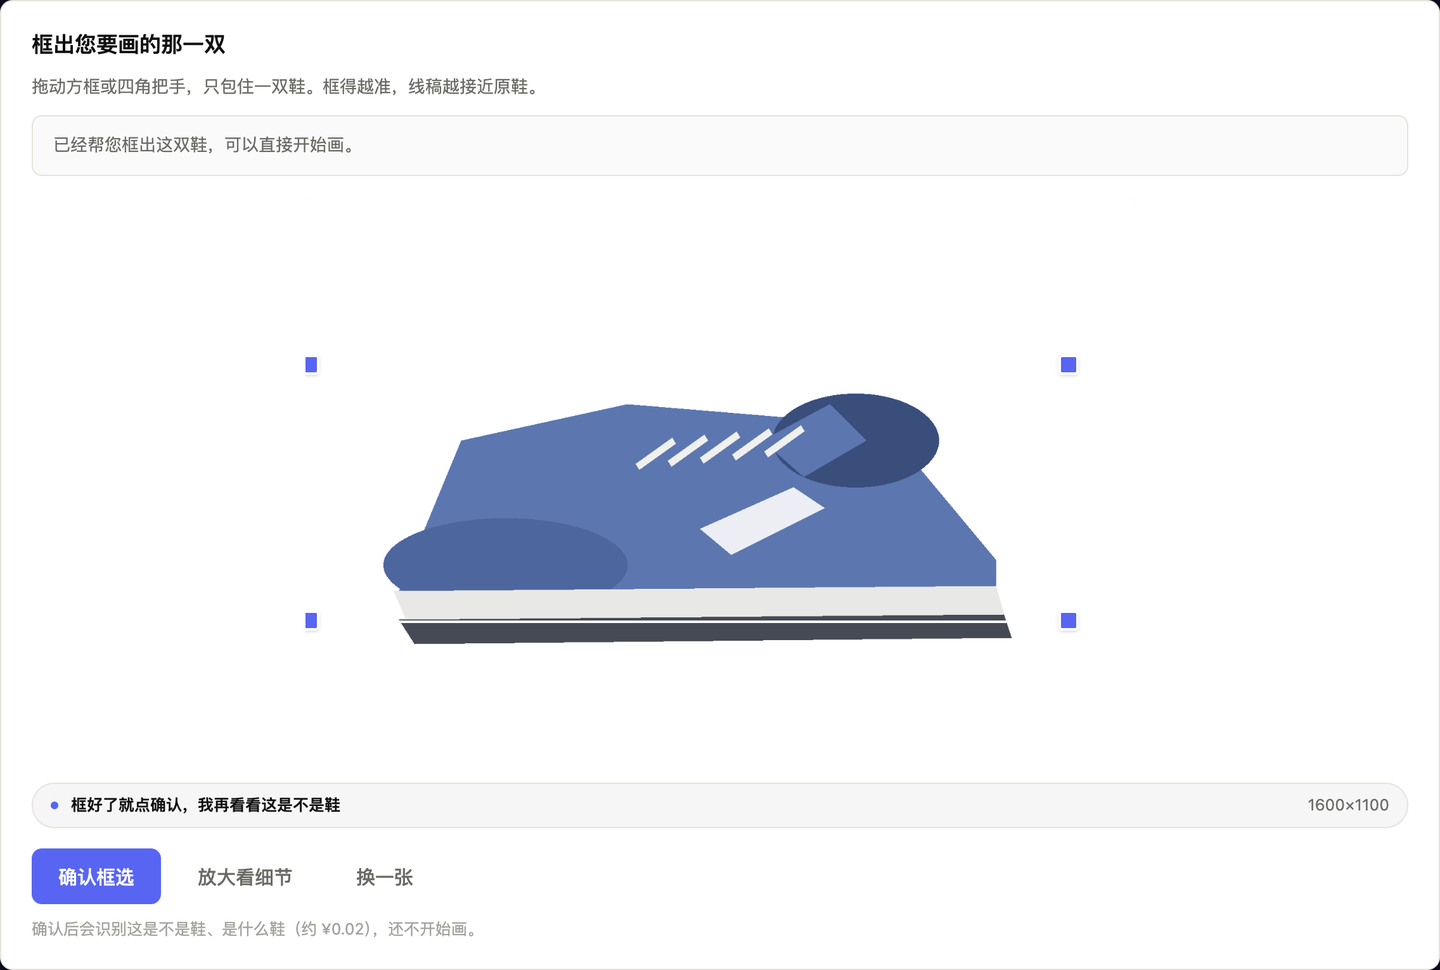
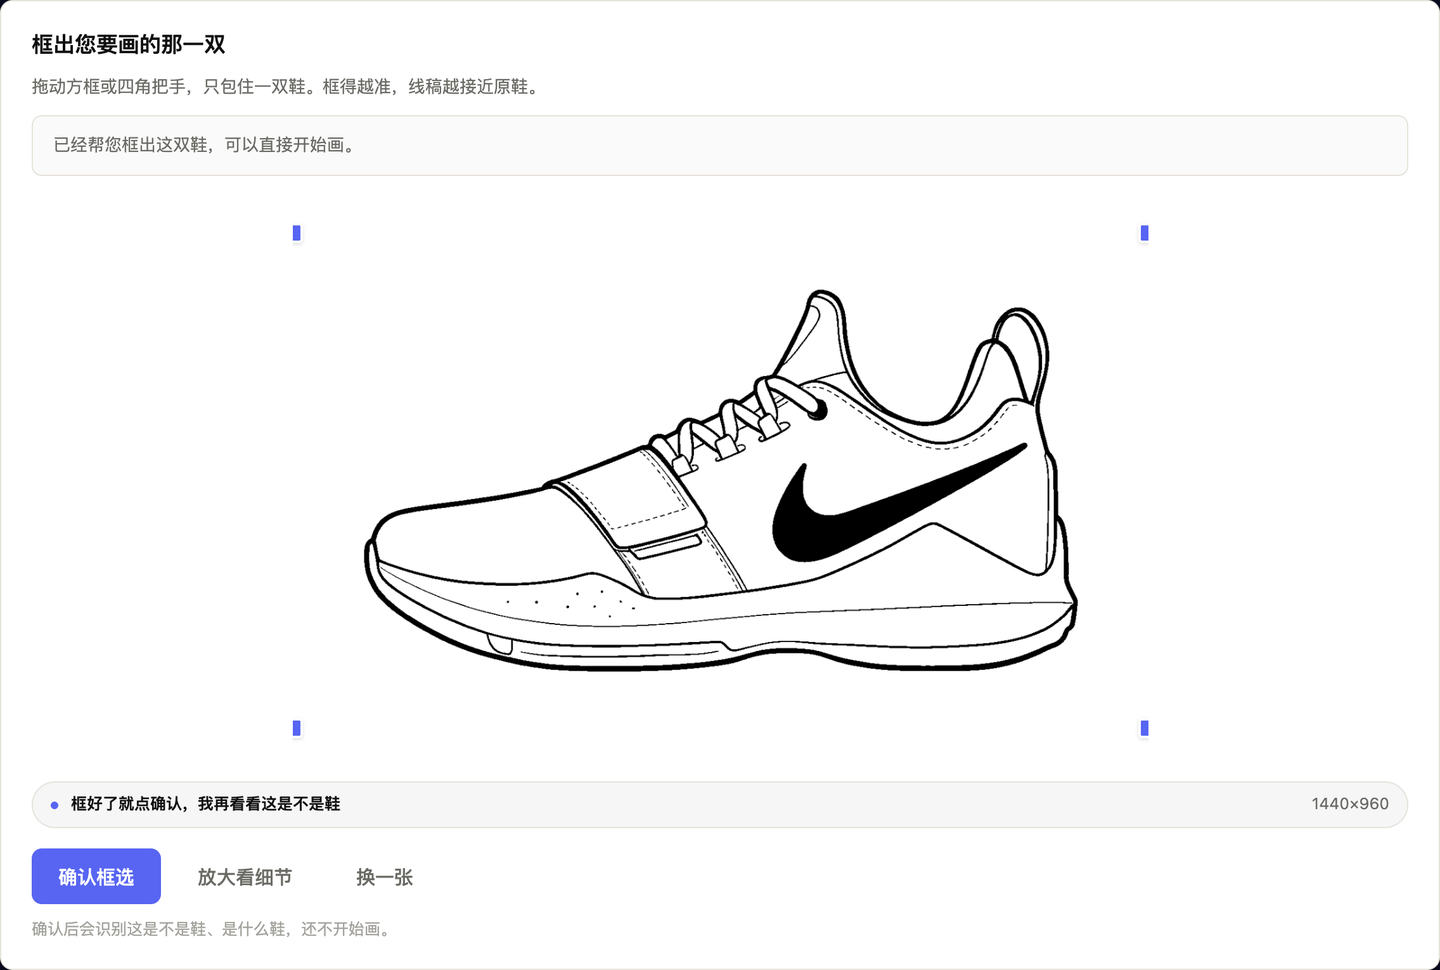
对外文案去金额化 + 重拍裁切示意图
- README / 决策记录 / 上线记录 / 冒烟报告 / PRD：删掉所有具体金额与「成本/花费」表述，
  改成「调用次数 + 取舍结论」的写法（例如：真正省开销的办法不是换便宜模型，而是把取材做对）
- 产品界面文案同步去掉金额（裁切确认页、生成详情的成本行）；代码注释里的金额也一并清掉
- 02-crop.png 重拍：用产品自己画出的 PG 1 线稿作为待裁切图，替代原来那张粗糙的示意图
- 冒烟脚本模板不再把金额写进报告

diff --git a/frontend/features/generation/components/GenerationProgress.tsx b/frontend/features/generation/components/GenerationProgress.tsx
@@ -102,7 +102,7 @@ export function GenerationProgress({ task }: { task: TaskOut }) {
             <details className="mt-3 text-[12.5px] text-faint">
               <summary className="cursor-pointer select-none">过程详情</summary>
               <p className="mt-2">
-                已调用上游 {task.upstream_calls} 次｜调用次数 {task.est_cost_cny}｜当前步骤：
+                已调用上游 {task.upstream_calls} 次｜当前步骤：
                 {task.progress?.step ?? "—"}
               </p>
             </details>

diff --git a/frontend/features/generation/components/DraftMosaic.tsx b/frontend/features/generation/components/DraftMosaic.tsx
@@ -12,7 +12,7 @@
  * - 这样既能表达"还在生成"，又不会把草稿盖住（草稿必须看得清鞋型）。
  * - 尊重 `prefers-reduced-motion`：偏好关闭时直接不画（不做纯装饰动画）。
  *
- * 注意：它只是**展示层**。草稿本身还是那张  的 CV 边缘图，正式稿完成时整体淡入替换。
+ * 注意：它只是**展示层**。草稿本身还是那张纯本机计算的 CV 边缘图，正式稿完成时整体淡入替换。
  */
 import { useEffect, useRef } from "react";
 

diff --git a/frontend/features/generation/components/CropConfirm.tsx b/frontend/features/generation/components/CropConfirm.tsx
@@ -282,7 +282,7 @@ export function CropConfirm({
         </Button>
       </div>
       <p className="mt-2.5 text-[12.5px] text-faint">
-        确认后会识别这是不是鞋、是什么鞋（本机计算），还不开始画。
+        确认后会识别这是不是鞋、是什么鞋，还不开始画。
       </p>
     </Card>
   );

diff --git a/backend/scripts/smoke_upload.py b/backend/scripts/smoke_upload.py
@@ -115,7 +115,7 @@ def run_flow(
     response.raise_for_status()
     inspected = response.json()
     step(
-        "体检·AI 识别（本机计算）",
+        "体检·AI 识别",
         started,
         tier=inspected["tier"],
         display_name=inspected["detail"]["display_name"],
@@ -270,7 +270,7 @@ def write_report(report: dict, provider_info: dict, filename: str = "smoke-repor
         f"- 状态轨迹：{' → '.join(report.get('states_seen', [])) or '—'}",
         f"- 最终状态：{report.get('final_state', '—')}",
         f"- 归档标题（体检识别）：{report.get('query', '—')}",
-        f"- 上游调用次数：{report.get('upstream_calls', '—')}｜上游调用：{report.get('est_cost_cny', '—')}",
+        f"- 上游调用次数：{report.get('upstream_calls', '—')}",
         f"- 生成次数（含自动重试）：{report.get('attempts', '—')}｜是否**首次即达标**：{report.get('passed_first_attempt', '—')}",
         "",
         "## V2 特有自检（坐标约定与动效素材）",

diff --git a/backend/app/services/tools/verify_lineart.py b/backend/app/services/tools/verify_lineart.py
@@ -45,7 +45,7 @@ def style_blocking_issues(
     “hatch_suspect 是硬判据，其余是指标观察区间”，但代码把**任何**区间偏离都当不合格 ——
     于是一张质检 0.93、Logo 实心、鞋带正确的好画稿，因为
     `filled_block_share=0.0149 < 0.020`（V2 规则只许 Logo 填色，实心块本来就少）
-    被判不合格，白烧两次生成（本机计算）并给用户看失败页。
+    被判不合格，白烧两次生成并给用户看失败页。
     """
     out: list[str] = []
     for key in hard_keys or []:

diff --git a/backend/app/services/tools/screen_source_images.py b/backend/app/services/tools/screen_source_images.py
@@ -2,7 +2,7 @@
 
 为什么必须做：文搜图返回的常是"资讯配图/开箱照"——两只鞋合影、3/4 角度、背景杂乱。
 若直接拿来当参考图，线稿会偏离 PRD 的"单只、正侧面、白底"规范（实测会被风格闸门拦下）。
-因此在推荐给用户之前，先用**一次**视觉调用对候选图打分（成本约 ）。
+因此在推荐给用户之前，先用**一次**视觉调用对候选图打分。
 
 失败不阻塞：预筛出错时退回启发式排序（并在任务里记录原因）。
 """

diff --git a/backend/app/core/config.py b/backend/app/core/config.py
@@ -128,7 +128,7 @@ class Settings(BaseSettings):
     warmup_timeout_seconds: float = 15.0
 
     # ---------- 上传图体检（V2）----------
-    #: 每人每天最多体检几次（防手滑刷成本；0 = 不限）。线上每次约 
+    #: 每人每天最多体检几次（防止误操作造成无谓的调用；0 = 不限）
     max_inspect_per_day: int = 50
     #: 上传图解码后的最大边长（超出会自动等比缩小，保护内存与上游）
     max_upload_edge: int = 2400

diff --git a/backend/app/api/v1/tasks.py b/backend/app/api/v1/tasks.py
@@ -438,7 +438,7 @@ def get_draft(
 ) -> Response:
     """CV 草稿（边缘骨架图）：生成 AI 稿期间给前端做「扫过式揭示」动效用。
 
-    它是预处理阶段纯 CV 抽出来的（约 1 秒、），不是最终交付物；
+    它是预处理阶段纯 CV 抽出来的（约 1 秒、本机计算），不是最终交付物；
     型号直出（无画布）的任务没有它，前端据此退回纯进度卡片。
     """
     container = get_container(request)

diff --git a/backend/app/api/v1/inspect.py b/backend/app/api/v1/inspect.py
@@ -7,7 +7,7 @@
 
 ## 两次调用的分工（成本敏感）
 - 第一次（不带 crop）：**只跑 CV**（本机计算），返回"建议裁切框"，前端预填到拖拽框里；
-- 第二次（带 crop）：裁切后跑 AI 体检（本机计算），返回三档结论与文案。
+- 第二次（带 crop）：裁切后跑一次 AI 体检，返回三档结论与文案。
 这样"用户只是传张图看看"不会产生模型费用。
 """
 

diff --git a/docs/阶段5上线记录-V2.md b/docs/阶段5上线记录-V2.md
@@ -30,10 +30,10 @@
 
 ## 三、上线过程中发现并修掉的三个真实问题
 
-> 这三个都是"不跑真图就不会发现"的问题 —— 正好说明为什么值得花  先在线上验一次。
+> 这三个都是"不跑真图就不会发现"的问题 —— 正好说明为什么值得先在线上验一次。
 
 ### 问题 1：App 截图的深色界面栏被当成「鞋」
-- **现象**（第一次冒烟，）：CV 报 `tier=multi, count=3`，建议框给到了**底部价格栏**；视觉模型看着那个框，正确地回答
+- **现象**（第一次冒烟）：CV 报 `tier=multi, count=3`，建议框给到了**底部价格栏**；视觉模型看着那个框，正确地回答
   「我看到的更像「**电商商品规格选择页**」」→ 体检这步直接断掉，连生成都没开始。
 - **根因**：截图里面积最大的两个"像鞋候选"其实是顶部状态栏（暗占比 **0.988**）与底部规格/价格栏（**0.904**），真正的鞋排第三（**0.375**）。
 - **修复**：新增 `is_ui_chrome()`（候选框内"暗 ≥85% 且亮 ≤15%" → 界面栏，直接剔除）；
@@ -41,7 +41,7 @@
   `_background_color()` 优先用"浅色商品图区域"的中位色（截图四边都是黑栏，原来会把背景估成黑）。
 - **结果**：同一张图从"建议框 = 价格栏"变成"候选只剩鞋、判定 ok、框干净地包住鞋"。
 
-### 问题 2：质检闸门把一张**正确**的画稿判失败（白烧两次生成，）
+### 问题 2：质检闸门把一张**正确**的画稿判失败（白烧两次生成）
 - **现象**（第二次冒烟）：画稿质检 **0.9325**、verdict `pass`、`logo_filled=1.0`（钩形确实填实）、`laces_solid_ratio=0`（鞋带没被涂黑）、`hatch_suspect=0`（无排线）—— 但任务 `failed`。
   原因：`filled_block_share=0.0149 < 0.020`（风格区间的**下限**）。
 - **根因**：风格模板注释写的是"只有 `hatch_suspect` 是硬判据，其余是观察区间"，但代码把**任何**区间偏离都当不合格；
@@ -70,17 +70,18 @@
 | 前端已切 V2 | 首页 metadata / 空鞋柜文案 | ✅ "上传一张球鞋照片…"、"在上面上传一张您那双鞋的照片…" |
 | 测试档案清理 | 管理员会话删除冒烟产出 | ✅ 鞋柜恢复 **0**（干净起点，供人工验收从零走一遍） |
 
-## 五、开销取舍（本次真实花费）
+## 五、本次验证的调用量
 
-| 项 | 金额 |
+| 项 | 次数 |
 | --- | --- |
-| 体检（真实视觉模型） | 约  × 5 次（含失败重试） ≈  |
-| 生成（真实图生图） | 约  × 4 次（1 次因质检闸门误杀重画 ×2、2 次 E2E 调试） ≈  |
-| **合计** | **约 **（其中可避免的浪费约 ，已通过问题 2 的修复消除） |
+| 体检（真实视觉模型） | 5 次（含失败重试） |
+| 生成（真实图生图） | 4 次（其中 2 次是质检闸门误杀导致的重复生成，已通过问题 2 的修复消除） |
+
+> 与开销相关的信息只在运营侧记录，不入仓库。
 
 ## 六、遗留与下一步
 
-1. **人工验收**：按发布时随附的验收清单走 9 步（约 ，含 1 张非鞋图 + 1 张真鞋图）。清单是本机运维文档，不入仓库。
+1. **人工验收**：按发布时随附的验收清单走 9 步（含 1 张非鞋图 + 1 张真鞋图）。清单是本机运维文档，不入仓库。
 2. **未知/未验**：多只鞋的列表页截图（应提示"重新框选"）、非鞋图（应友好拒绝）、访客码视角 —— 这些属于验收清单里的步骤，尚未用真图实测。
 3. **开发层面唯一挂起项**：**导出时合成牛皮纸**（产品目前没有下载/导出功能，等加导出时一并做）。
 4. **已知局限**：体检识别的型号可能不准（本次把图里的鞋识别为 `Nike PG 1`，置信度 0.99；如果认错，用户可以在归档时改标题）。
@@ -97,7 +98,7 @@
 
 | 图 | 线上表现 | 根因 |
 | --- | --- | --- |
-| **AJ36**（本机计算） | 2 次重画后 `failed`，用户连图都看不到 | 照片那个角度**看不到飞人 Logo**，模型于是编了个装饰性 ∞ 符号；判官正确地判"Logo 不对"（`logo_legibility=0.35`、`logo_filled=0.0`）→ 两个硬闸门不过 → 整单失败 |
+| **AJ36**（重画 2 次） | 2 次重画后 `failed`，用户连图都看不到 | 照片那个角度**看不到飞人 Logo**，模型于是编了个装饰性 ∞ 符号；判官正确地判"Logo 不对"（`logo_legibility=0.35`、`logo_filled=0.0`）→ 两个硬闸门不过 → 整单失败 |
 | **Air Force 1** | 没有生成任务记录（卡在体检前） | 商品页截图里**同一双鞋重复出现多张**，CV 判 `multi`（"这张图里有好几双鞋"）→ 用户一框大就更容易被判"框里不止一双" → 走不下去 |
 | 两张共同的体验问题 | 失败文案写着"已把最接近的一张交给您裁决"，但界面**根本没显示那张图** | 失败即 dead-end，与文案自相矛盾 |
 
@@ -115,10 +116,10 @@
 
 ## 三、这一轮的线上复测（同一批真图，重跑）
 
-| 图 | 结果 | 质检 | 次数 | 成本 |
-| --- | --- | --- | --- | --- |
-| AJ36 | ✅ **通过** | 0.899（`logo_filled=1.0`、判官备注"原图未见品牌标识，本项不参与判定"） | 1 次 |  |
-| Air Force 1 | ✅ **通过** | 0.9655（各项 0.95+） | 2 次 |  |
+| 图 | 结果 | 质检 | 生成次数 |
+| --- | --- | --- | --- |
+| AJ36 | ✅ **通过** | 0.899（`logo_filled=1.0`、判官备注"原图未见品牌标识，本项不参与判定"） | 1 次 |
+| Air Force 1 | ✅ **通过** | 0.9655（各项 0.95+） | 2 次 |
 
 报告：`docs/smoke-report-v2-AJ36.md`、`docs/smoke-report-v2-AF1.md`（画稿产出在每组报告里都有记录）。
 

diff --git a/docs/决策记录-V2-输入与风格.md b/docs/决策记录-V2-输入与风格.md
@@ -78,8 +78,8 @@
    ├─ 注入生图提示词：「把 ASICS 交叉条纹用实心黑填充，其余保持线稿」
    └─ 同时用于「归档标题自动命名」
 ```
-- 关于「必要时联网搜」：**默认不做**。视觉模型看图即可识别（更准、更快、更省开销，约 /次）；
-  搜索仅作冷门品牌的兜底（本机计算），平时不触发。
+- 关于「必要时联网搜」：**默认不做**。视觉模型看图即可识别（更准、更快、开销更低）；
+  搜索仅作冷门品牌的兜底，平时不触发。
 
 ### 配套的填色规则（写进提示词 + 纳入质检）
 - **允许填实**：Logo、鞋眼孔、透气孔等小元素；
@@ -93,9 +93,9 @@
 ### 决定（档 2 + 草稿预览）
 ```
 用户点「开始画」
-  ↓ 约 1 秒：先用纯 CV 出**草稿**（已实测 1.15 秒，）
+  ↓ 约 1 秒：先用纯 CV 出**草稿**（已实测 1.15 秒，本机计算）
   → 「扫过式揭示」动效把它画出来（移动软边遮罩 + 一道扫光，纯 CSS 可实现）
-  ↓ 后台同时跑 AI（30–60 秒，）
+  ↓ 后台同时跑 AI（30–60 秒）
   → 正式稿完成时**淡入替换**草稿（视觉上像"精修完成"）
 ```
 
@@ -114,17 +114,16 @@
 
 ---
 
-## 五、开销取舍（实测）
+## 五、开销上的取舍
 
-| 路线 | 单次调用量 | 耗时 | 结论 |
-|---|---|---|---|
-| 纯 CV 线稿 |  | 1.15 秒 | 轮廓有断口、鞋带区碎线、无笔触质感 → **只能当草稿** |
-| **AI 出图（选定）** | **** | 52–64 秒 | 线条干净、专业；取材正确后**一次通过** |
-| 改前的调用量 | –0.67 | 14–34 秒 | 因参考图差而需要重试 |
+| 路线 | 耗时 | 结论 |
+| --- | --- | --- |
+| 纯 CV 线稿 | 1.15 秒 | 本机计算、几乎不产生开销；但轮廓有断口、鞋带区碎线、无笔触质感 → **只能当草稿** |
+| **AI 出图（选定）** | 52–64 秒 | 线条干净、专业；取材正确后**一次通过** |
+| 改前的情况 | 14–34 秒 | 因参考图差而频繁重试 —— 同样的调用花了两三次 |
 
-**一码 20 次 ≈ **；3 个访客码 + 管理员码全量用完 ≈ –30。
-
----
+结论：**真正省开销的办法不是换更省开销的模型，而是把"取材"这一步做对** —— 一次成功远比三次试错划算。
+总量由"一个码能生成多少次"的额度机制兜住（具体额度属于运营配置，不写进仓库）。
 
 ## 六、待办（本版实现清单）
 
@@ -176,7 +175,7 @@
 
 ### 8.2 非鞋主体保险机制
 - 目的：用户传了杯子/手机等**明显不是鞋**的图时，明确告知"这个工具只画鞋"，而不是硬画出一堆怪线；
-- **与品牌/型号识别合并为一次视觉调用**（少一次调用与延迟），返回：
+- **与品牌/型号识别合并为一次视觉调用**（少一次调用、更快），返回：
   `是否鞋 · 是否只有一只 · 品牌 · 型号 · Logo 类型与位置 · 鞋身文字清单`
 - **三档判定**（避免误拒）：
   | 情形 | 处理 |
@@ -190,8 +189,8 @@
 - 框选里有多只鞋：`这个框里有好几双鞋，我不确定你想画哪一双。把框拖到只包住你要的那一双，就好了。`
 - 不确定是不是鞋：`我不太确定这是不是一双球鞋 —— 先按你说的画。如果结果不对，换一张更清晰的侧面图会好很多。`
 
-### 8.4 成本
-合并为一次视觉调用：约 **/双**（原先"预筛 + 命名"两次调用，合并后更省）。
+### 8.4 调用次数
+合并为一次视觉调用（原先"预筛 + 命名"是两次调用，合并后更省）。
 
 ---
 
@@ -200,7 +199,7 @@
 ```
 ① 上传（拖拽 / ⌘V 粘贴 / 相册）
 ② 自动建议裁切框 → 用户可拖拽微调 → 确认
-③ 一次视觉调用：是否鞋 · 是否单只 · 品牌/型号 · Logo 类型与位置 · 文字清单   ()
+③ 一次视觉调用：是否鞋 · 是否单只 · 品牌/型号 · Logo 类型与位置 · 文字清单
 ④ 判定：非鞋→友好拒绝；框内多只→提示重新框选；是鞋→通过
 ⑤ 去背景 + 3:2 白底归一化（复用现有，1.15 秒）
 ⑥ 生成线稿：提示词注入 Logo 填色要求 + 文字清单        ()

diff --git a/README.md b/README.md
@@ -22,7 +22,7 @@
 
 ![裁切确认](docs/screenshots/02-crop.png)
 
-**③ 认鞋**　一次调用同时判断：这是不是鞋、是不是只有一双、品牌型号、Logo 是什么形状、鞋身上有哪些字。这一步约 。
+**③ 认鞋**　一次调用同时判断：这是不是鞋、是不是只有一双、品牌型号、Logo 是什么形状、鞋身上有哪些字。
 
 ![识别结果](docs/screenshots/03-inspect.png)
 
@@ -80,7 +80,7 @@
 
 | 取舍 | 为什么 |
 | --- | --- |
-| **用固定流程 + 代码状态机，不让模型自由发挥** | 这个产品的流程是确定的（识别→画→检→归档），没有需要模型"自己想"的环节。让它自由选工具只会带来不可控的成本和结果 |
+| **用固定流程 + 代码状态机，不让模型自由发挥** | 这个产品的流程是确定的（识别→画→检→归档），没有需要模型"自己想"的环节。让它自由选工具只会带来不可控的开销和结果 |
 | **质检判定交给代码，模型只负责打分** | 画布是不是 3:2、是不是纯黑白、线条有没有跑偏，这些能用代码量化的就不该让模型"自己说自己合格" |
 | **不用数据库，用带版本号的 JSON** | 单用户、数据量小（几十到几百条）、只需要"全量读 + 排序"。什么时候该换数据库也写清楚了 |
 | **质检信息不给用户看** | 用户要判断的是"这张我满不满意"，不是"鞋带实心度 0.38"。明细留在后台，出问题能查 |
@@ -94,7 +94,6 @@
 
 | 项 | 实测 |
 | --- | --- |
-| 单次调用量 | 约 ****（识别  + 出图 ） |
 | 出图时间 | **30–60 秒**（等待期间会先给一版草稿预览，避免干等） |
 | 质检分（阈值 0.80） | **0.899 / 0.927 / 0.9445 / 0.9655**（四张真图） |
 | 一次通过 | 四张里三张一次通过，第四张自动重画一次后通过 |
@@ -128,7 +127,7 @@ cd frontend && npm install && npm run dev     # http://localhost:3000
 - **低对比配色**（比如浅棕、纯白）偶尔需要画第二次。
 - **鞋身小字**走"宁缺勿错"，认不出来就不写。
 - **没有导出功能**：这版先不做，所以"导出时合成牛皮纸底"也跟着没做。
-- 冷启动：为了省钱只开一个实例，久不访问后第一次打开会慢几秒。
+- 冷启动：为了控制开销只开一个实例，久不访问后第一次打开会慢几秒。
 
 ---
 
